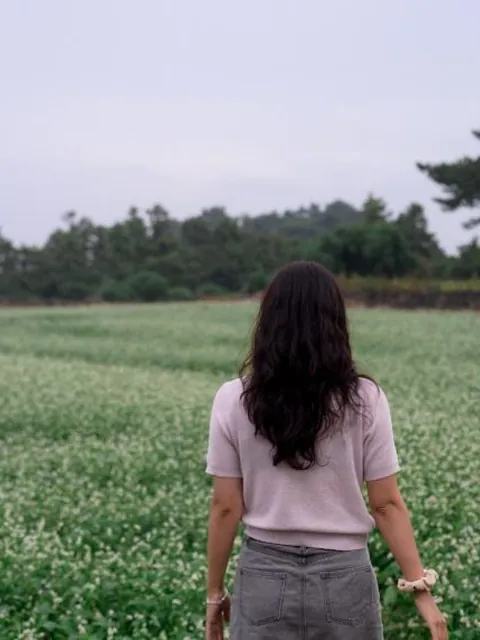
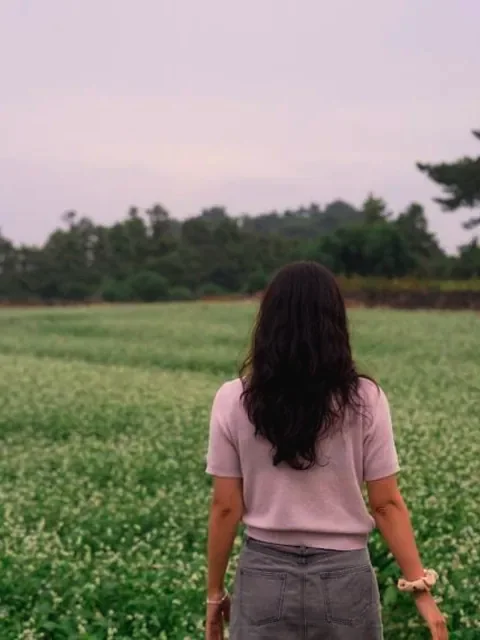
상세 '위치 확인하기' 버튼 삭제 · 메인 사진 띠 12장 톤 통일 (밝기 · 색 치우침 · 채도를 맞추고 따뜻한 필름 톤)

diff --git a/src/i18n/ui.ts b/src/i18n/ui.ts
@@ -21,7 +21,7 @@ export interface UiText {
     basicInfo: string; placeName: string; address: string; mainPrograms: string; usage: string;
     programStory: string; programDetails: string; content: string; note: string;
     editorTitle: string; editorOneLine: string; travelStyle: string; likedIt: string; forWhom: string;
-    joinLabel: string; joinTitle: string; joinWho: string; joinHow: string; joinLinks: string; locate: string;
+    joinLabel: string; joinTitle: string; joinWho: string; joinHow: string; joinLinks: string;
     recommendTitle: string; backToHouse: string; prevStay: string; nextStay: string; toTest: string; booking: string; navAria: string;
   };
   test: {
@@ -66,7 +66,7 @@ export const UI: Record<Lang, UiText> = {
       programStory: '프로그램 이야기', programDetails: '프로그램 소개', content: '체험 내용', note: '참고사항',
       editorTitle: '에디터가 직접 머물러 봤어요', editorOneLine: '에디터의 한 줄 소개', travelStyle: '에디터 여행 성향',
       likedIt: '이런 점이 좋았어요', forWhom: '이런 사람에게 추천해요',
-      joinLabel: 'BEFORE YOU GO', joinTitle: '참여 전 확인', joinWho: '참여 대상', joinHow: '참여 방법', joinLinks: '최신 안내', locate: '위치 확인하기',
+      joinLabel: 'BEFORE YOU GO', joinTitle: '참여 전 확인', joinWho: '참여 대상', joinHow: '참여 방법', joinLinks: '최신 안내',
       recommendTitle: '이런 분께 추천합니다', backToHouse: '집 둘러보기', prevStay: '이전 게하', nextStay: '다음 게하', toTest: '나에게 맞는 게하 찾기', booking: '예약 정보 보기', navAria: '다른 게스트하우스',
     },
     test: {
@@ -117,7 +117,7 @@ export const UI: Record<Lang, UiText> = {
       programStory: 'The story behind it', programDetails: 'Programs', content: 'What you’ll do', note: 'Good to know',
       editorTitle: 'Our editor stayed here', editorOneLine: 'About the editor', travelStyle: "Editor's travel style",
       likedIt: 'What I loved', forWhom: 'Who it’s for',
-      joinLabel: 'BEFORE YOU GO', joinTitle: 'Before you join', joinWho: 'Who can join', joinHow: 'How to join', joinLinks: 'Latest info', locate: 'See on the map',
+      joinLabel: 'BEFORE YOU GO', joinTitle: 'Before you join', joinWho: 'Who can join', joinHow: 'How to join', joinLinks: 'Latest info',
       recommendTitle: 'Recommended for', backToHouse: 'Explore the house', prevStay: 'Previous', nextStay: 'Next', toTest: 'Find the stay that fits you', booking: 'Booking info', navAria: 'Other guesthouses',
     },
     test: {
@@ -168,7 +168,7 @@ export const UI: Record<Lang, UiText> = {
       programStory: '活动的故事', programDetails: '活动介绍', content: '体验内容', note: '注意事项',
       editorTitle: '编辑亲自入住体验', editorOneLine: '编辑简介', travelStyle: '编辑的旅行风格',
       likedIt: '我喜欢的地方', forWhom: '推荐给这样的人',
-      joinLabel: 'BEFORE YOU GO', joinTitle: '参加前确认', joinWho: '参加对象', joinHow: '参加方式', joinLinks: '最新信息', locate: '查看位置',
+      joinLabel: 'BEFORE YOU GO', joinTitle: '参加前确认', joinWho: '参加对象', joinHow: '参加方式', joinLinks: '最新信息',
       recommendTitle: '推荐给这样的你', backToHouse: '逛逛这栋房子', prevStay: '上一家民宿', nextStay: '下一家民宿', toTest: '找到适合我的民宿', booking: '预订信息', navAria: '其他民宿',
     },
     test: {

diff --git a/src/pages/StayPage.tsx b/src/pages/StayPage.tsx
@@ -208,10 +208,9 @@ export default function StayPage({ id }: { id: ProgramId }) {
         </section>
       )}
 
-      {/* 06-2. 참여 전 확인 — 확인된 참여 조건만, 그리고 네이버 지도에서 위치 확인 */}
-      <section className="stay-sec stay-join wrap" data-tone="light" aria-labelledby={r.join ? 'sec-join' : undefined}>
-        {r.join && (
-          <>
+      {/* 06-2. 참여 전 확인 — 확인된 참여 조건만 */}
+      {r.join && (
+        <section className="stay-sec stay-join wrap" data-tone="light" aria-labelledby="sec-join">
             <div className="stay-sec__label">
               <p className="label">{t.joinLabel}</p>
               <h2 id="sec-join" className="stay-sec__title">{t.joinTitle}</h2>
@@ -242,14 +241,8 @@ export default function StayPage({ id }: { id: ProgramId }) {
                 </div>
               )}
             </dl>
-          </>
-        )}
-        {r.place.address && (
-          <a className="btn btn--ghost stay-join__map" href={`https://map.naver.com/p/search/${encodeURIComponent(r.place.address)}`} target="_blank" rel="noopener noreferrer" data-track={`stay_${id}_map`}>
-            {t.locate} <span className="arrow" aria-hidden="true">↗</span>
-          </a>
-        )}
-      </section>
+        </section>
+      )}
 
       {/* 07. NAVIGATION — 예약 링크는 데이터에 있을 때만 */}
       <nav className="stay-nav wrap" data-tone="light" aria-label={t.navAria}>
